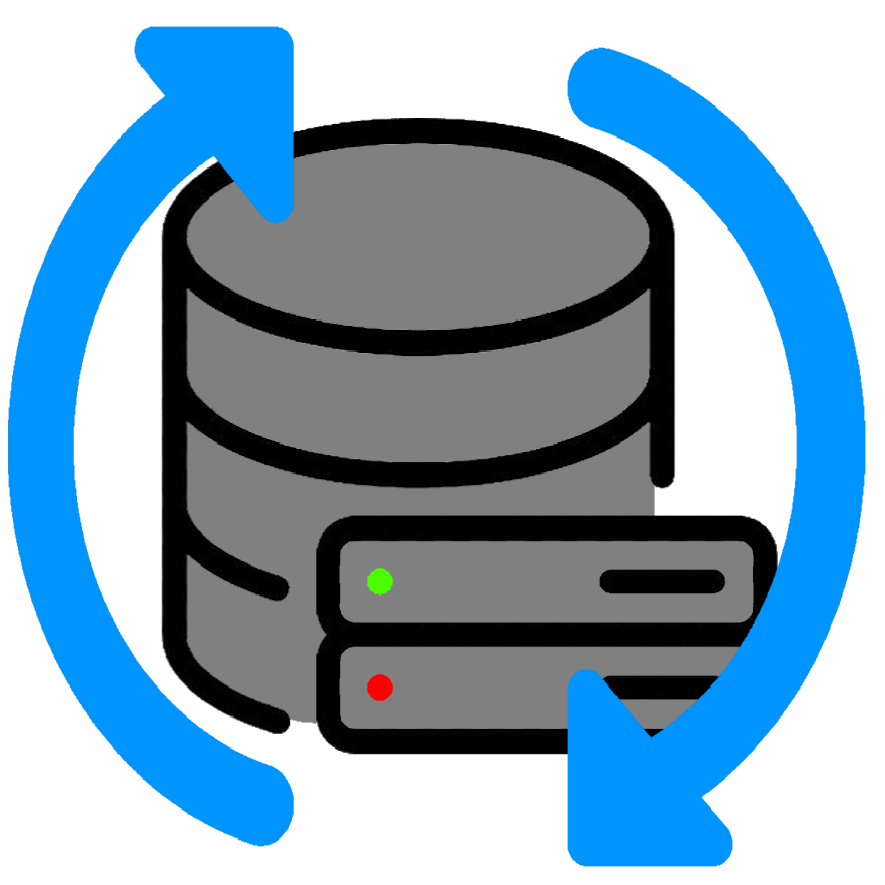
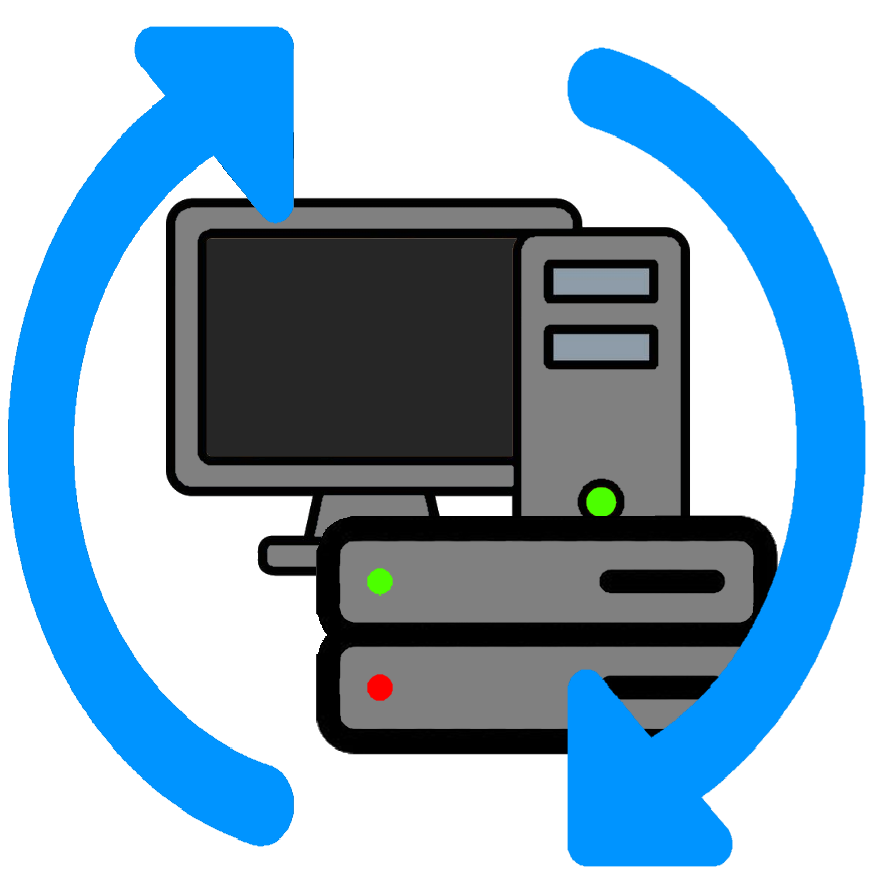
0.0.4

Changed region(s): [[0.1831, 0.122, 0.7932, 0.8542]]

diff --git a/AutoBak2/MainForm.Designer.cs b/AutoBak2/MainForm.Designer.cs
@@ -68,6 +68,7 @@
             label12 = new Label();
             comboBoxJobSelection = new ComboBox();
             groupBox2 = new GroupBox();
+            checkBoxCloudMode = new CheckBox();
             label7 = new Label();
             panel3 = new Panel();
             buttonDeleteExclusions = new Button();
@@ -192,26 +193,26 @@
             // 
             SingleExecutiontoolStripMenuItem.Image = Properties.Resources.icon_blitz;
             SingleExecutiontoolStripMenuItem.Name = "SingleExecutiontoolStripMenuItem";
-            SingleExecutiontoolStripMenuItem.Size = new Size(224, 26);
+            SingleExecutiontoolStripMenuItem.Size = new Size(209, 26);
             SingleExecutiontoolStripMenuItem.Text = "Single Execution";
             SingleExecutiontoolStripMenuItem.Click += SingleExecutiontoolStripMenuItem_Click;
             // 
             // addInstanceToolStripMenuItem
             // 
             addInstanceToolStripMenuItem.Name = "addInstanceToolStripMenuItem";
-            addInstanceToolStripMenuItem.Size = new Size(224, 26);
+            addInstanceToolStripMenuItem.Size = new Size(209, 26);
             addInstanceToolStripMenuItem.Text = "Add Instance";
             // 
             // stopAllInstancesToolStripMenuItem
             // 
             stopAllInstancesToolStripMenuItem.Name = "stopAllInstancesToolStripMenuItem";
-            stopAllInstancesToolStripMenuItem.Size = new Size(224, 26);
+            stopAllInstancesToolStripMenuItem.Size = new Size(209, 26);
             stopAllInstancesToolStripMenuItem.Text = "Stop All Instances";
             // 
             // actionsToolStripMenuItem
             // 
             actionsToolStripMenuItem.Name = "actionsToolStripMenuItem";
-            actionsToolStripMenuItem.Size = new Size(224, 26);
+            actionsToolStripMenuItem.Size = new Size(209, 26);
             actionsToolStripMenuItem.Text = "Actions";
             // 
             // optionsToolStripMenuItem
@@ -604,6 +605,7 @@
             // 
             // groupBox2
             // 
+            groupBox2.Controls.Add(checkBoxCloudMode);
             groupBox2.Controls.Add(label7);
             groupBox2.Controls.Add(panel3);
             groupBox2.Controls.Add(buttonSelectSourcePath);
@@ -617,6 +619,16 @@
             groupBox2.TabIndex = 2;
             groupBox2.TabStop = false;
             groupBox2.Text = "Source";
+            // 
+            // checkBoxCloudMode
+            // 
+            checkBoxCloudMode.AutoSize = true;
+            checkBoxCloudMode.Location = new Point(117, 24);
+            checkBoxCloudMode.Name = "checkBoxCloudMode";
+            checkBoxCloudMode.Size = new Size(113, 24);
+            checkBoxCloudMode.TabIndex = 60;
+            checkBoxCloudMode.Text = "Cloud Mode";
+            checkBoxCloudMode.UseVisualStyleBackColor = true;
             // 
             // label7
             // 
@@ -1450,7 +1462,7 @@
             MainMenuStrip = menuStrip1;
             Margin = new Padding(3, 4, 3, 4);
             Name = "MainForm";
-            Text = "AutoBak 2 [0.0.3]";
+            Text = "AutoBak 2 [0.0.4]";
             menuStrip1.ResumeLayout(false);
             menuStrip1.PerformLayout();
             tabControl1.ResumeLayout(false);
@@ -1612,5 +1624,6 @@
         private Button buttonWeekdaysClear;
         private ToolStripMenuItem actionsToolStripMenuItem;
         private TabPage tabPage5;
+        private CheckBox checkBoxCloudMode;
     }
 }

diff --git a/AutoBak2/Core/JobExecutor.cs b/AutoBak2/Core/JobExecutor.cs
@@ -80,6 +80,50 @@ namespace AutoBak2.Utils
             CopyDirectoryRecursive(config.SourcePath, finalTargetPath, config.ExcludedItems, ref currentFileCount, totalFiles, ct, progress);
         }
 
+
+        private static void CopyDirectoryCloudParallel(JobConfig config, string finalTargetPath, IProgress<JobProgressData> progress, CancellationToken ct)
+        {
+            Directory.CreateDirectory(finalTargetPath);
+            int currentFileCount = 0;
+
+            // EnumerateFiles ist der Schlüssel: Es liefert die erste Datei SOFORT.
+            // SearchOption.AllDirectories ersetzt die manuelle Rekursion für den flachen Parallel-Ansatz.
+            var allFiles = Directory.EnumerateFiles(config.SourcePath, "*", SearchOption.AllDirectories);
+
+            Parallel.ForEach(allFiles, new ParallelOptions { MaxDegreeOfParallelism = 10, CancellationToken = ct }, filePath =>
+            {
+                // Deine vorhandene Exclusion-Logik (muss evtl. kurz als Helper greifbar sein)
+                if (IsManualExcluded(filePath, config.ExcludedItems)) return;
+
+                string relativePath = Path.GetRelativePath(config.SourcePath, filePath);
+                string targetFilePath = Path.Combine(finalTargetPath, relativePath);
+
+                // Verzeichnis am Ziel erstellen (Thread-safe)
+                string targetDir = Path.GetDirectoryName(targetFilePath);
+                if (!Directory.Exists(targetDir)) Directory.CreateDirectory(targetDir);
+
+                // Kopieren - hier wird die Latenz durch Parallelität "versteckt"
+                File.Copy(filePath, targetFilePath, true);
+
+                // Progress melden
+                Interlocked.Increment(ref currentFileCount);
+                progress?.Report(new JobProgressData
+                {
+                    ProgressPercentage = 0, // Wir verzichten auf CountFiles, daher keine %
+                    CurrentFile = Path.GetFileName(filePath),
+                    IsComplete = false
+                });
+            });
+        }
+
+        // Kleiner Helper, der genau das tut, was deine Func bisher in der Rekursion gemacht hat
+        private static bool IsManualExcluded(string path, List<string> exclusions)
+        {
+            string normalizedPath = path.TrimEnd(Path.DirectorySeparatorChar);
+            return exclusions.Any(e => normalizedPath.StartsWith(e.TrimEnd(Path.DirectorySeparatorChar), StringComparison.OrdinalIgnoreCase));
+        }
+
+
         private static void CopyDirectoryRecursive(
      string sourceDir,
      string targetDir,

diff --git a/AutoBak2/MainForm.cs b/AutoBak2/MainForm.cs
@@ -54,6 +54,8 @@ namespace AutoBak2
 
             checkBoxArchive.Checked = config.ArchiveEnabled;
 
+            checkBoxCloudMode.Checked = config.CloudMode;
+
             checkBoxUseSourcedirectoryName.Checked = config.UseSourcedirectoryName;
 
             radioButtonZip.Checked = false;
@@ -146,7 +148,7 @@ namespace AutoBak2
             job.CreateSubdirectory = checkBoxCreateSubdirectory.Checked;
             job.SubdirectoryName = textBoxSubdirectoryName.Text.Trim();
             job.UseSourcedirectoryName = checkBoxUseSourcedirectoryName.Checked;
-
+            job.CloudMode = checkBoxCloudMode.Checked;
             job.ExcludedItems = new List<string>();
             foreach (Control control in flowLayoutPanelExclusions.Controls)
             {

diff --git a/AutoBak2/ConfigStructs/JobConfig.cs b/AutoBak2/ConfigStructs/JobConfig.cs
@@ -51,6 +51,8 @@ namespace AutoBak2.ConfigStructs
         [XmlElement("SourcePath")]
         public string SourcePath { get; set; } = string.Empty;
 
+        public bool CloudMode { get; set; } = false;
+
         // --- Exklusions-Einstellungen ---
 
         [XmlArray("Exclusions")]
